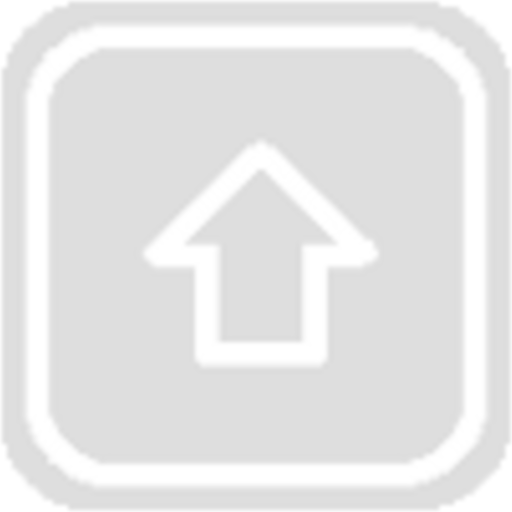
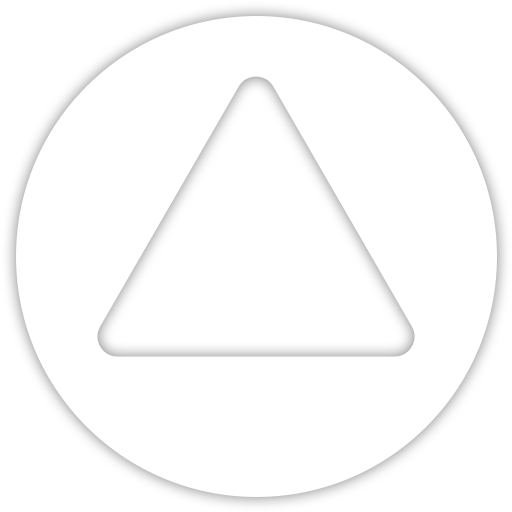
-Added new background paper texture -Added new maths paper texture -Added new UI sprites -Added temp background image assets for testing -Rebuilt maths paper redering system -Fixed bug where maths paper would render on top of buttons in overlayed menus

diff --git a/AndroidStudio/app/src/main/java/ui/Menu.java b/AndroidStudio/app/src/main/java/ui/Menu.java
@@ -5,6 +5,7 @@ import java.util.ArrayList;
 import camera.Camera;
 import camera.PageViewCamera;
 import game.AppLogic;
+import game.MathsPaper;
 import handlers.Handler;
 import handlers.TextureCache;
 import objects.Rectangle;
@@ -94,6 +95,7 @@ public abstract class Menu {
 
         menuTopY = p.height * 0.5f - menuHeight * 0.5f;
 
+
     }
 
     public void buildPageMenu(PVector cameraCenter, Rectangle pageArea, PageViewCamera camera) {
@@ -179,7 +181,7 @@ public abstract class Menu {
 
         // draw white background
         p.noStroke();
-        p.fill(240);
+        p.fill(255); // 240
         p.rectMode(CENTER);
         p.rect(0, 0, pageMenu.getWidth(), pageMenu.getHeight());
 
@@ -208,6 +210,7 @@ public abstract class Menu {
         float xTileEnd = menuWidth / gridSize; // where to end horizontal tiling in texture units
         float yTileEnd = menuHeight / gridSize; // where to end vertical tiling in texture units
         // texture
+        p.blendMode(MULTIPLY); // render it multiplied
         p.noStroke();
         p.textureMode(NORMAL);
         p.beginShape();
@@ -218,6 +221,7 @@ public abstract class Menu {
         p.vertex(endX, endY, xTileEnd, yTileEnd); // bottom right
         p.vertex(startX, endY, xTileStart, yTileEnd); // bottom left
         p.endShape();
+        p.blendMode(BLEND); // back to normal rendering
 
         p.popMatrix();
 
@@ -230,7 +234,7 @@ public abstract class Menu {
         // used only in editor
         p.stroke(0);
         p.strokeWeight(6);
-        p.fill(240);
+        p.fill(255); //240
         p.rectMode(CORNER);
         p.rect(menuCenterX - menuWidth / 2, menuTopY, menuWidth, menuHeight);
         // draw the buttons
@@ -257,6 +261,7 @@ public abstract class Menu {
         float xTileEnd = menuWidth / gridSize; // where to end horizontal tiling in texture units
         float yTileEnd = menuHeight / gridSize; // where to end vertical tiling in texture units
         // texture
+        p.blendMode(MULTIPLY); // render it multiplied
         p.noStroke();
         p.textureMode(NORMAL);
         p.beginShape();
@@ -267,6 +272,7 @@ public abstract class Menu {
         p.vertex(endX, endY, xTileEnd, yTileEnd); // bottom right
         p.vertex(startX, endY, xTileStart, yTileEnd); // bottom left
         p.endShape();
+        p.blendMode(BLEND); // back to normal rendering
 
         p.popMatrix();
     }

diff --git a/AndroidStudio/app/src/main/java/game/BackgroundPaper.java b/AndroidStudio/app/src/main/java/game/BackgroundPaper.java
@@ -11,7 +11,7 @@ public class BackgroundPaper {
 	int gridSize;
 
 	public BackgroundPaper(PApplet p) {
-		gridSize = 1100;
+		gridSize = 1500; //1100
 
 	}
 
@@ -20,13 +20,13 @@ public class BackgroundPaper {
 		// when the screen has moved
 
 		// find x start position
-		float startX = (int) Math.round((topLeft.x - (gridSize / 2)) / gridSize);
+		float startX = (int) Math.round((topLeft.x - (gridSize * 0.5f)) / gridSize);
 		// find y start position;
-		float startY = (int) Math.round((topLeft.y - (gridSize / 2)) / gridSize);
+		float startY = (int) Math.round((topLeft.y - (gridSize * 0.5f)) / gridSize);
 		// find x end position
-		float endX = (int) Math.round((bottomRight.x + (gridSize / 2)) / gridSize);
+		float endX = (int) Math.round((bottomRight.x + (gridSize * 0.5f)) / gridSize);
 		// find y end position
-		float endY = (int) Math.round((bottomRight.y + (gridSize / 2)) / gridSize);
+		float endY = (int) Math.round((bottomRight.y + (gridSize * 0.5f)) / gridSize);
 
 		float xTileStart = 0; // where to start horizontal tiling in texture units
 		float yTileStart = 0; // where to start vertical tiling in texture units

diff --git a/AndroidStudio/app/src/main/java/handlers/Handler.java b/AndroidStudio/app/src/main/java/handlers/Handler.java
@@ -44,9 +44,9 @@ public abstract class Handler {
         try {
             String path = file.toString();
             LODFull = p.loadImage(path);
-            this.gridResolution = findNextPowerOf2(LODFull.width / width); // smallest this should be is 16
+//            this.gridResolution = findNextPowerOf2(LODFull.width / width); // smallest this should be is 16
 //            PApplet.print(path + " - Actual Resolution: " + LODFull.width + "x" + LODFull.height);
-            LODFull.resize(this.gridResolution * width, this.gridResolution * height);
+//            LODFull.resize(this.gridResolution * width, this.gridResolution * height);
 //            PApplet.print(path + " - Fixed Resolution: " + LODFull.width + "x" + LODFull.height);
 
         } catch (Exception e) {

diff --git a/AndroidStudio/app/src/main/java/game/MathsPaper.java b/AndroidStudio/app/src/main/java/game/MathsPaper.java
@@ -64,6 +64,8 @@ public class MathsPaper {
         }
 
         // texture
+        graphics.blendMode(MULTIPLY); // render it multiplied
+//        graphics.tint(255, 107); // equivalent to 42% opacity
         graphics.noStroke();
         graphics.textureMode(NORMAL);
         graphics.beginShape();
@@ -74,6 +76,8 @@ public class MathsPaper {
         graphics.vertex(endX, endY, xTileEnd, yTileEnd); // bottom right
         graphics.vertex(startX, endY, xTileStart, yTileEnd); // bottom left
         graphics.endShape();
+
+        graphics.blendMode(BLEND); // back to normal rendering
 
     }
 

diff --git a/AndroidStudio/app/src/main/java/handlers/TextureCache.java b/AndroidStudio/app/src/main/java/handlers/TextureCache.java
@@ -88,8 +88,8 @@ public class TextureCache {
         AppLogic.cacheImage(p.g, gridLOD8);
 
         // page view background texture
-        int pvbSize = 4;
-        pageViewBackgroundLOD256 = p.loadImage("PageViewBackground.jpg");
+        int pvbSize = 16; //4
+        pageViewBackgroundLOD256 = p.loadImage("PageViewBackground.png"); //"PageViewBackground.jpg"
         pageViewBackgroundLOD256.resize(256 * pvbSize, 256 * pvbSize);
         pageViewBackgroundLOD128 = pageViewBackgroundLOD256.get();
         pageViewBackgroundLOD128.resize(128 * pvbSize, 128 * pvbSize);

diff --git a/AndroidStudio/app/src/main/java/objects/Page.java b/AndroidStudio/app/src/main/java/objects/Page.java
@@ -452,7 +452,7 @@ public class Page extends PageViewObject {
         }
 
         // draw the page background
-        p.fill(240);
+        p.fill(255); // 240
         p.rect(0, 0, paddedView.getWidth(), paddedView.getHeight());
 
         p.translate((float) -(view.getX() + view.getWidth() * 0.5), (float) -(view.getY() + view.getHeight() * 0.5));

diff --git a/AndroidStudio/app/src/main/java/editor/Editor.java b/AndroidStudio/app/src/main/java/editor/Editor.java
@@ -271,7 +271,7 @@ public class Editor {
         float currentScale = AppLogic.convert.getScale();
         float fixedScale = 3;
 
-        p.background(240);
+        p.background(255); //240
 
         // find corners of camera
         PVector currentTopLeft = AppLogic.game.screenSpace.getTopLeft();
